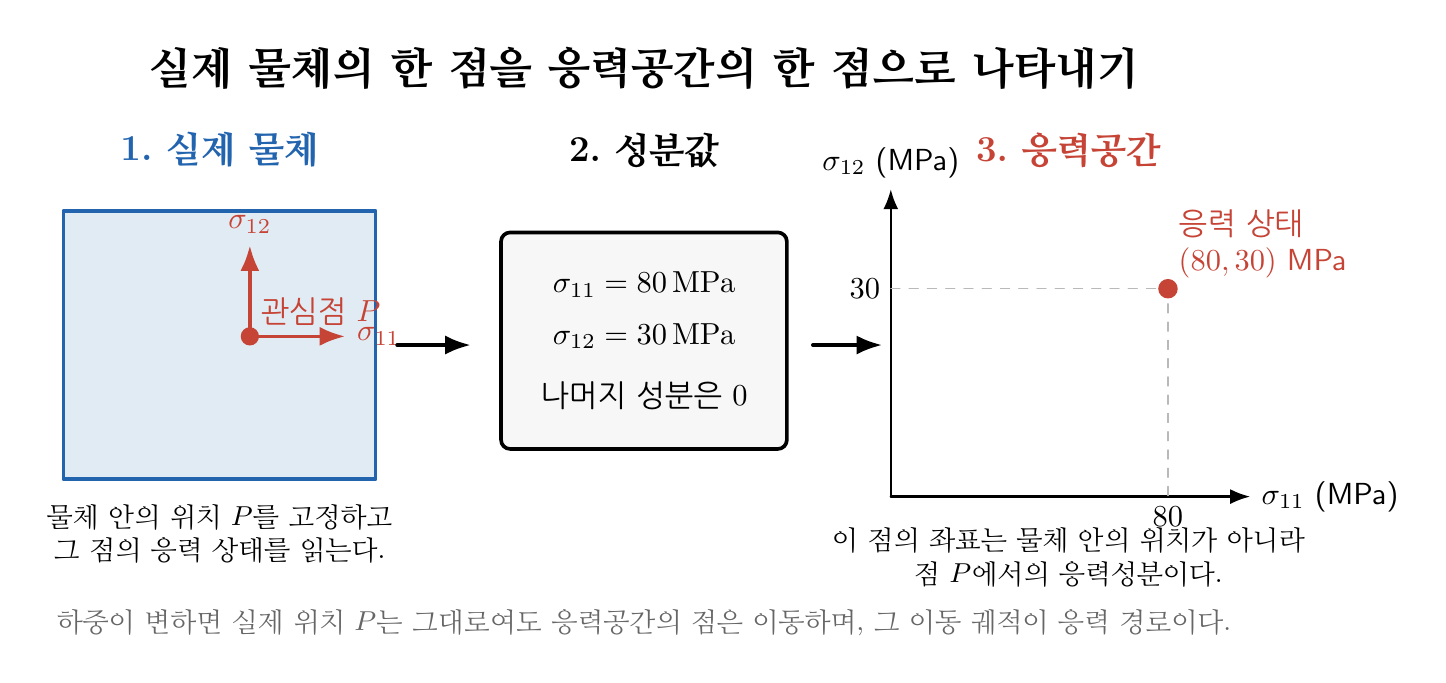
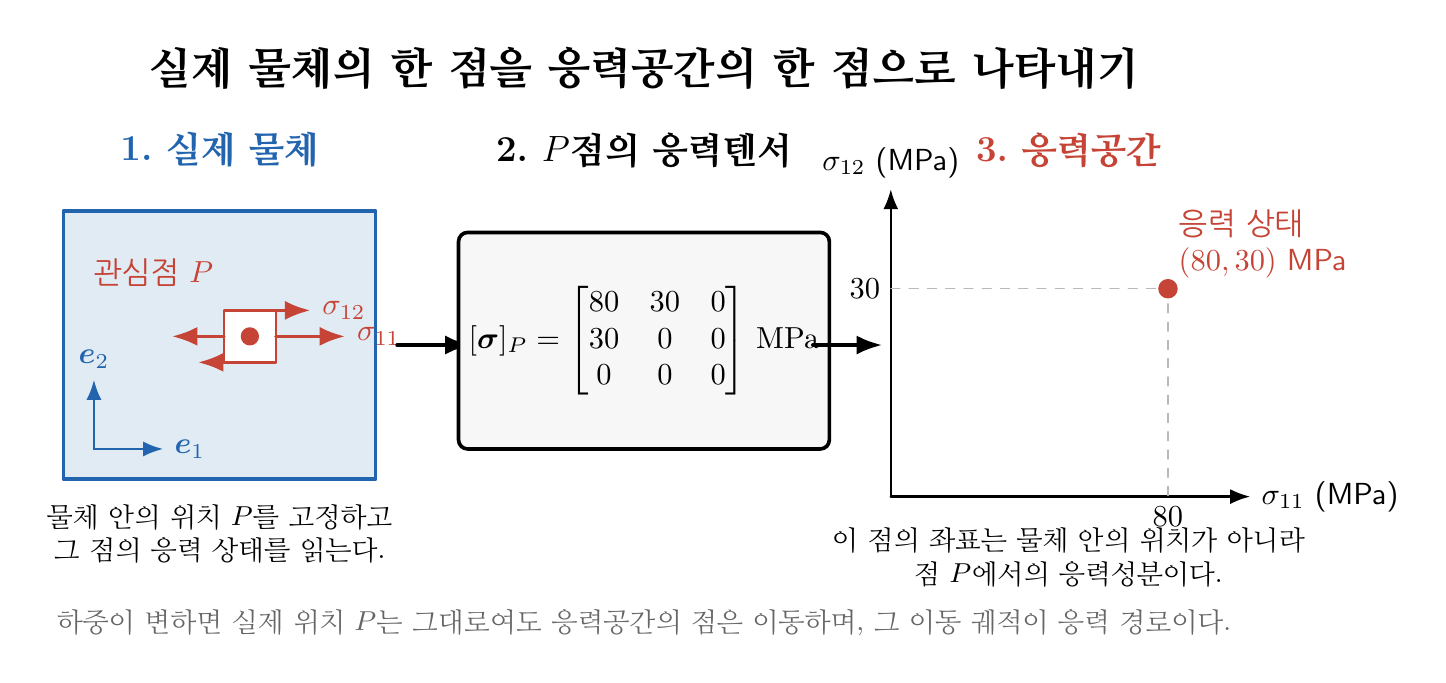
A bit further refined illustration

diff --git a/assets/tikz/metal_plasticity/physical_point_to_stress_space.tex b/assets/tikz/metal_plasticity/physical_point_to_stress_space.tex
@@ -12,18 +12,27 @@
   \node[font=\large\bfseries,physical] at (2.1,5.25) {1. 실제 물체};
   \fill[body] (0.3,1.45) rectangle (3.9,4.55);
   \draw[physical,very thick] (0.3,1.45) rectangle (3.9,4.55);
+  \draw[physical,thick,->] (0.65,1.8)--(1.45,1.8) node[right] {$\boldsymbol e_1$};
+  \draw[physical,thick,->] (0.65,1.8)--(0.65,2.6) node[above] {$\boldsymbol e_2$};
+  \draw[stress,thick,fill=white] (2.15,2.8) rectangle (2.75,3.4);
   \fill[stress] (2.45,3.1) circle (3pt);
-  \node[stress,above right] at (2.45,3.1) {관심점 $P$};
-  \draw[stress,very thick,->] (2.45,3.1)--(3.55,3.1) node[right] {$\sigma_{11}$};
-  \draw[stress,very thick,->] (2.45,3.1)--(2.45,4.15) node[above] {$\sigma_{12}$};
+  \node[stress,above left] at (2.15,3.55) {관심점 $P$};
+  \draw[stress,very thick,->] (2.75,3.1)--(3.55,3.1) node[right] {$\sigma_{11}$};
+  \draw[stress,very thick,->] (2.15,3.1)--(1.55,3.1);
+  \draw[stress,very thick,->] (2.45,3.4)--(3.15,3.4) node[right] {$\sigma_{12}$};
+  \draw[stress,very thick,->] (2.45,2.8)--(1.85,2.8);
   \node[align=center,font=\small] at (2.1,0.82) {물체 안의 위치 $P$를 고정하고\\그 점의 응력 상태를 읽는다.};
 
   \draw[->,very thick] (4.15,3.0)--(5.0,3.0);
-  \node[font=\large\bfseries] at (7.0,5.25) {2. 성분값};
+  \node[font=\large\bfseries] at (7.0,5.25) {2. $P$점의 응력텐서};
   \node[draw,rounded corners=3pt,very thick,fill=gray!6,minimum width=3.3cm,minimum height=2.5cm,align=center] at (7.0,3.05)
-    {$\sigma_{11}=80\,\mathrm{MPa}$\\[5pt]
-     $\sigma_{12}=30\,\mathrm{MPa}$\\[8pt]
-     나머지 성분은 $0$};
+    {$\displaystyle
+     [\boldsymbol\sigma]_P=
+     \begin{bmatrix}
+       80 & 30 & 0\\
+       30 & 0 & 0\\
+       0 & 0 & 0
+     \end{bmatrix}\,\mathrm{MPa}$};
 
   \draw[->,very thick] (8.95,3.0)--(9.75,3.0);
   \node[font=\large\bfseries,stress] at (11.9,5.25) {3. 응력공간};

diff --git a/assets/lecture_notes/3_1_metal_plasticity/metal_plasticity_12_plastic_yield.md b/assets/lecture_notes/3_1_metal_plasticity/metal_plasticity_12_plastic_yield.md
@@ -199,55 +199,7 @@ $$
 을 정한다. [11장](/assets/lecture_notes/3_1_metal_plasticity/metal_plasticity_11_stress_transformation.md)의 크기순 정렬과 같은 계산이지만, 여기서는 정렬 결과를 최대·최소 첨자로 명시한다.
 평면응력 상태에서도 면외 주응력 0을 포함한 **세 주응력**을 사용한다.
 
-# 5. 항복 조건 (스칼라 응력)
-
-## 5.1. 탄성 범위와 항복의 경계
-
-일축 응력 상태(uniaxial stress state)에서는 스칼라 값 하나로 응력 상태를 대표할 수 있으며, 그 값을 $\sigma$로 표기 하자.
-일축 인장(uniaxial tension)과 일축 압축(uniaxial compression) 환경에서 항복강도가 같다면 초기 탄성 범위와 항복의 경계는 각각
-
-$$
-\lvert\sigma\rvert<\sigma^Y \quad\text{(탄성 범위)},
-$$
-
-$$
-\boxed{\lvert\sigma\rvert=\sigma^Y}\quad\text{(항복의 경계)}
-$$
-
-이다. 예를 들어 $\sigma^Y=100\,\mathrm{MPa}$이라면
-$\sigma=100\,\mathrm{MPa}$의 인장과 $\sigma=-100\,\mathrm{MPa}$의 압축이
-동일한 항복 기준(yield criterion)에 도달한다.
-위의 항복 조건식($\lvert\sigma\rvert\le\sigma^Y$)에서 절댓값을 쓰는 것은 인장·압축 대칭이라는 재료모델의 가정이다.
-실제 재료의 인장과 압축 항복강도가 다르면 다른 표현이 필요하다.
-
-## 5.2. 항복 이후의 응력은 어떻게 되는가?
-
-완전소성(perfect plasticity) 모델의 일축 인장에서는 항복 이후 응력이 $\sigma^Y$에 머무르면서
-소성변형이 증가할 수 있다. 변형경화 재료에서는 소성변형에 따라 항복 수준이 증가한다.
-따라서 실제 인장시험에서 응력이 초기 항복응력보다 커졌다고 해서 모순인 것은 아니다.
-초기 항복응력과 현재의 항복 수준을 구분해야 한다.
-
-이후에는 먼저 항복 수준을 고정하고, 어떤 응력 조합이 그 경계에 도달하는지 살펴본다.
-
-# 6. 항복 조건 (응력 텐서)
-
-다축 응력 상태에서는 개별 응력성분을 항복응력과 따로 비교하지 않고,
-응력텐서 전체에서 계산한 등가응력을 기준값과 비교한다.
-따라서 일축 상태의 $\lvert\sigma\rvert=\sigma^Y$는
-다축 상태에서 $\sigma_{eq}(\boldsymbol\sigma)=\sigma^Y$로 확장된다.
-다음 절에서는 이 비교를 항복함수로 표현하고, 응력 공간에서 그 의미를 살펴본다.
-
-# 7. 응력텐서에서 항복함수로
-
-앞서 정의한 등가응력 $\sigma_{eq}(\boldsymbol\sigma)$를 일축 항복응력 $\sigma^Y$와 비교하면
-다축 응력 상태에서도 항복의 경계를 정할 수 있다.
-항복 조건을 수학적으로 표현한 것이 항복함수(yield function)이며, 항복함수는 다음처럼 정의할 수 있다.
-
-$$
-\boxed{f(\boldsymbol\sigma)=\sigma_{eq}(\boldsymbol\sigma)-\sigma^Y}.
-$$
-
-## 7.1. 응력 공간(stress space)과 주응력 공간(principal stress space)
+## 4.3. 응력 상태를 공간의 점으로 나타내기
 
 실제 물리공간에서는 좌표축의 방향을 기저벡터
 $\boldsymbol e_1,\boldsymbol e_2,\boldsymbol e_3$로 나타내고,
@@ -281,7 +233,66 @@ $(100,100,0)\,\mathrm{MPa}$는 등2축 인장 상태다.
 등방 재료의 항복조건은 주축의 절대 방향에 의존하지 않으므로
 세 주응력만으로 표현할 수 있다.
 
-## 7.2. 하중 경로와 항복면
+이제 응력 상태를 공간의 한 점으로 해석할 준비가 되었다.
+다음 절에서는 가장 단순한 일축 응력 상태에서 탄성 범위와 항복 경계를 먼저 살펴본다.
+
+# 5. 항복 조건 (스칼라 응력)
+
+## 5.1. 탄성 범위와 항복의 경계
+
+일축 응력 상태(uniaxial stress state)에서는 스칼라 값 하나로 응력 상태를 대표할 수 있으며, 그 값을 $\sigma$로 표기 하자.
+일축 인장(uniaxial tension)과 일축 압축(uniaxial compression) 환경에서 항복강도가 같다면 초기 탄성 범위와 항복의 경계는 각각
+
+$$
+\lvert\sigma\rvert<\sigma^Y \quad\text{(탄성 범위)},
+$$
+
+$$
+\boxed{\lvert\sigma\rvert=\sigma^Y}\quad\text{(항복의 경계)}
+$$
+
+이다. 예를 들어 $\sigma^Y=100\,\mathrm{MPa}$이라면
+$\sigma=100\,\mathrm{MPa}$의 인장과 $\sigma=-100\,\mathrm{MPa}$의 압축이
+동일한 항복 기준(yield criterion)에 도달한다.
+
+![가로축은 일축 응력, 세로축은 응력의 절댓값이다. 압축과 인장 영역에서 응력의 절댓값이 항복응력보다 작은 탄성 범위, 항복응력과 같은 항복의 경계, 초기 항복 기준을 넘는 영역을 구분한 그림](/assets/img/lecture_notes/metal_plasticity/uniaxial_yield_boundary.png){: style="width: 900px; max-width: 100%; height: auto; display: block; margin: 0 auto;" }
+
+위의 항복 조건식($\lvert\sigma\rvert\le\sigma^Y$)에서 절댓값을 쓰는 것은 인장·압축 대칭이라는 재료모델의 가정이다.
+실제 재료의 인장과 압축 항복강도가 다르면 다른 표현이 필요하다.
+
+## 5.2. 항복 이후의 응력은 어떻게 되는가?
+
+완전소성(perfect plasticity) 모델의 일축 인장에서는 항복 이후 응력이 $\sigma^Y$에 머무르면서
+소성변형이 증가할 수 있다. 변형경화 재료에서는 소성변형에 따라 항복 수준이 증가한다.
+따라서 실제 인장시험에서 응력이 초기 항복응력보다 커졌다고 해서 모순인 것은 아니다.
+초기 항복응력과 현재의 항복 수준을 구분해야 한다.
+
+아래 그림은 이런 설명에 자주 쓰이는 개념적인 재료 거동 모델을 일축 인장의 응력–변형률 곡선으로 비교한 것이다.
+(a)와 (b)는 항복 이후 응력이 $\sigma^Y$에 머무는 완전소성 모델이고, (c)와 (d)는 소성변형에 따라 항복 수준이 증가하는 변형경화 모델이다.
+
+![강체–완전소성, 탄성–완전소성, 탄성–선형경화, 탄성–비선형경화 모델의 응력–변형률 곡선을 비교한 그림](/assets/img/lecture_notes/metal_plasticity/idealized_material_models.png){: style="width: 900px; max-width: 100%; height: auto; display: block; margin: 0 auto;" }
+
+이후에는 먼저 항복 수준을 고정하고, 어떤 응력 조합이 그 경계에 도달하는지 살펴본다.
+
+# 6. 항복 조건 (응력 텐서)
+
+다축 응력 상태에서는 개별 응력성분을 항복응력과 따로 비교하지 않고,
+응력텐서 전체에서 계산한 등가응력을 기준값과 비교한다.
+따라서 일축 상태의 $\lvert\sigma\rvert=\sigma^Y$는
+다축 상태에서 $\sigma_{eq}(\boldsymbol\sigma)=\sigma^Y$로 확장된다.
+다음 절에서는 이 비교를 항복함수로 표현하고, 응력 공간에서 그 의미를 살펴본다.
+
+# 7. 응력텐서에서 항복함수로
+
+앞서 정의한 등가응력 $\sigma_{eq}(\boldsymbol\sigma)$를 일축 항복응력 $\sigma^Y$와 비교하면
+다축 응력 상태에서도 항복의 경계를 정할 수 있다.
+항복 조건을 수학적으로 표현한 것이 항복함수(yield function)이며, 항복함수는 다음처럼 정의할 수 있다.
+
+$$
+\boxed{f(\boldsymbol\sigma)=\sigma_{eq}(\boldsymbol\sigma)-\sigma^Y}.
+$$
+
+## 7.1. 하중 경로와 항복면
 
 물체의 한 위치를 고정하고 하중을 변화시키면, 그 위치의 응력 상태가 달라진다.
 이를 응력 공간에서는 점의 이동으로 나타내며,
@@ -331,7 +342,7 @@ $1,2$는 평면 내 두 주축을 구분하는 첨자이며, 이 그림에서는
 이 그림은 항복면과 응력 경로의 개념을 먼저 보여주기 위해 von Mises 항복경계를 예로 사용했다.
 정수압 축, 편차응력, $\pi$-plane과 3차원 항복면의 관계는 von Mises 식을 유도한 뒤 9.4절에서 설명한다.
 
-## 7.3. 항복면 위에 있다는 것과 소성변형이 증가한다는 것
+## 7.2. 항복면 위에 있다는 것과 소성변형이 증가한다는 것
 
 항복면에 도달했다는 사실만으로 매 순간 소성변형이 증가한다고 단정할 수는 없다.
 항복면에서 하중을 줄이면 추가 소성변형 없이 응력이 감소하면서 항복면 내부로 이동할 수 있다.
@@ -380,6 +391,50 @@ $E=200\,\mathrm{GPa}$인 재료가 일축 응력 $250\,\mathrm{MPa}$에서
 틀리다. 역방향 항복에 이르지 않도록 하중을 줄이면 추가 소성변형률이 0일 수 있다.
 항복조건은 응력 공간에서 허용되는 영역과 소성하중의 경계를 정한다.
 소성변형률 증가의 방향과 크기는 하중 경로, 유동법칙과 경화법칙을 함께 고려해 결정한다.
+-->
+
+## 문제 3: 물리공간의 점과 응력공간의 점
+
+물체 내부의 고정된 위치 $P$에서 측정한 응력성분이
+$(\sigma_{11},\sigma_{12})=(80,30)\,\mathrm{MPa}$이고 나머지 성분은 0이다.
+이 응력 상태를 $\sigma_{11}$-$\sigma_{12}$ 응력공간의 한 점으로 나타내라.
+또한 이 점의 두 좌표가 물체 내부 위치 $P$의 공간좌표를 뜻하는지 설명하라.
+
+<!--
+풀이와 해답:
+응력공간의 점은 (80,30) MPa이다.
+두 좌표는 위치 P의 공간좌표가 아니라 P에서 측정한 두 응력성분을 뜻한다.
+물리공간의 점 P를 고정해도 하중이 변하면 응력공간의 점은 이동할 수 있다.
+-->
+
+## 문제 4: 비례 하중의 응력 경로
+
+초기 응력이 0인 상태에서 $\sigma_{11}=2\alpha$, $\sigma_{12}=\alpha$로 증가하고
+나머지 응력성분은 0인 하중을 생각하자. 여기서 $\alpha\geq0$이며 단위는 MPa이다.
+$\sigma_{11}$-$\sigma_{12}$ 응력공간에서 이 하중경로의 식을 구하고,
+직선인지 곡선인지 판단하라.
+
+<!--
+풀이와 해답:
+alpha를 제거하면 sigma_12=sigma_11/2이고 sigma_11>=0이다.
+두 응력성분의 비율 sigma_12/sigma_11=1/2이 일정하므로,
+응력 경로는 원점에서 시작하는 직선이다.
+-->
+
+## 문제 5: 항복함수의 부호와 응력 상태
+
+현재 항복 수준이 $\sigma^Y=200\,\mathrm{MPa}$이고
+$f=\sigma_{eq}-\sigma^Y$로 정의된 재료모델을 생각하자.
+$\sigma_{eq}=150$, $200$, $230\,\mathrm{MPa}$인 세 응력 상태에 대해
+$f$를 계산하고, 각 상태가 항복면의 내부·위·외부 중 어디에 있는지 구분하라.
+
+<!--
+풀이와 해답:
+sigma_eq=150 MPa이면 f=-50 MPa이므로 항복면 내부이다.
+sigma_eq=200 MPa이면 f=0이므로 항복면 위에 있다.
+sigma_eq=230 MPa이면 f=30 MPa이므로 현재 항복면 외부이다.
+마지막 상태는 현재 항복 수준을 고정한 모델의 허용 영역 밖에 있으므로,
+실제 응력 변화의 해석에는 소성유동과 경화를 함께 고려해야 한다.
 -->
 
 
